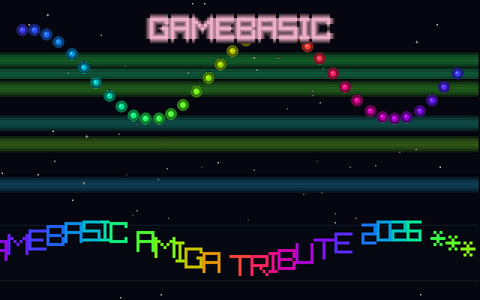
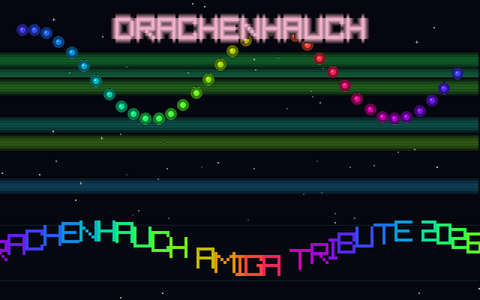
feat(showcase): Galerie auf 21 Demos, Schneefall raus, alle Bilder neu
Schneefall entfernt, neun Demos ergaenzt -- die Galerie zeigte 3D und
Demoszene, aber nichts von den Bereichen, die seither dazugekommen sind:

  Vortex, Emissives Leuchten, GPU-Instancing, Skelett-Animation,
  3D-Modelle, 3D-Physik, 2D-Physik, Diagramme, GUI im Glas-Look,
  Datentabelle

**Vier Vorschaubilder warben noch mit "GAMEBASIC"** -- Orbital,
PBR-Reaktor, Cybermatic und die Amiga-Demo. Die PNGs stammten von vor
der Umbenennung; die Programme selbst sagen laengst Drachenhauch. Alle 21
neu erzeugt.

Dabei fiel auf, dass der Hi-Res-Showcase gar kein Bild hatte: die Datei
heisst seit einer Umbenennung 144_hires_showcase.dh, das Bild lag noch
als 70_hires_showcase.png -- die Karte fiel still auf den Platzhalter
zurueck.

Drei erste Versuche waren unbrauchbar, sichtbar NUR im Bild:
- 107_physics3d und 112_physics2d zeigten bei 200 Bildern leeren Raum,
  weil die Koerper noch fielen. Jetzt 600.
- 156_gui_alle_widgets ist eine Vollbild-Anwendung und auf 480 Pixel
  heruntergerechnet nur graues Rauschen. Ersetzt durch 155_gui_glas
  (Regler, Schieber, Listen gross im Bild) und 157_gui_tabelle -- zwei
  Karten, die von der Oberflaeche mehr zeigen als eine ueberladene.

Verwaiste Bilder (34_schneefall, 70_hires_showcase, 156_gui_alle_widgets)
entfernt; Liste und Verzeichnis sind wieder deckungsgleich.

diff --git a/drachenhauch/editor_qt/showcase.py b/drachenhauch/editor_qt/showcase.py
@@ -48,9 +48,42 @@ SHOWCASE: list[dict] = [
     {"file": "67_wobbler.dh",        "title": "Wobbler",
      "desc": "Sinus-verzerrtes Plasma -- klassischer Demo-Effekt.",
      "frames": 140},
-    {"file": "34_schneefall.dh",     "title": "Schneefall",
-     "desc": "Stimmungsvolles Partikel-Schneetreiben.",
+    {"file": "119_vortex.dh",        "title": "Vortex",
+     "desc": "Additiv geblendete Regenbogen-Spirale in Vollbild.",
+     "frames": 200},
+    {"file": "110_emissive_glow.dh", "title": "Emissives Leuchten",
+     "desc": "Eigenleuchtende Modelle plus Bloom -- echtes Neon.",
+     "frames": 140},
+    {"file": "104_instancing.dh",    "title": "GPU-Instancing",
+     "desc": "Tausende Wuerfel aus einem Mesh in einem Draw-Call.",
+     "frames": 140},
+    {"file": "108_skeletal_anim.dh", "title": "Skelett-Animation",
+     "desc": "Geriggtes GLTF-Modell, Posen weich ineinander geblendet.",
      "frames": 160},
+    {"file": "88_3d_models.dh",      "title": "3D-Modelle",
+     "desc": "OBJ/GLTF laden und prozedurale Meshes texturieren.",
+     "frames": 140},
+    # 600 Bilder, nicht 200: die Koerper fallen erst. Vorher zeigte das
+    # Vorschaubild leeren Raum mit ein paar Punkten am Horizont.
+    {"file": "107_physics3d.dh",     "title": "3D-Physik",
+     "desc": "Starrkoerper mit Rapier3D -- fallen, stossen, stapeln.",
+     "frames": 600},
+    {"file": "112_physics2d.dh",     "title": "2D-Physik",
+     "desc": "Rapier2D in Bildschirm-Koordinaten: werfen und rollen.",
+     "frames": 600},
+    {"file": "154_chart.dh",         "title": "Diagramme",
+     "desc": "Kuchen, Balken, Kurven, Tacho -- alle sechs Arten.",
+     "frames": 160},
+    # Zwei GUI-Karten statt der Vollbild-Anwendung 156_gui_alle_widgets:
+    # die zeigt zwar alle 22 Widget-Arten, ist aber auf Thumbnail-Breite
+    # heruntergerechnet nur noch graues Rauschen. Diese beiden fuellen die
+    # Karte mit erkennbaren Bedienelementen.
+    {"file": "155_gui_glas.dh",      "title": "GUI im Glas-Look",
+     "desc": "Drehregler, Schieber und Listen mit Verlauf, Glanz und Fase.",
+     "frames": 120},
+    {"file": "157_gui_tabelle.dh",   "title": "Datentabelle",
+     "desc": "Sortieren, filtern, Zellen bearbeiten -- Balken und Bilder drin.",
+     "frames": 120},
 ]
 
 
